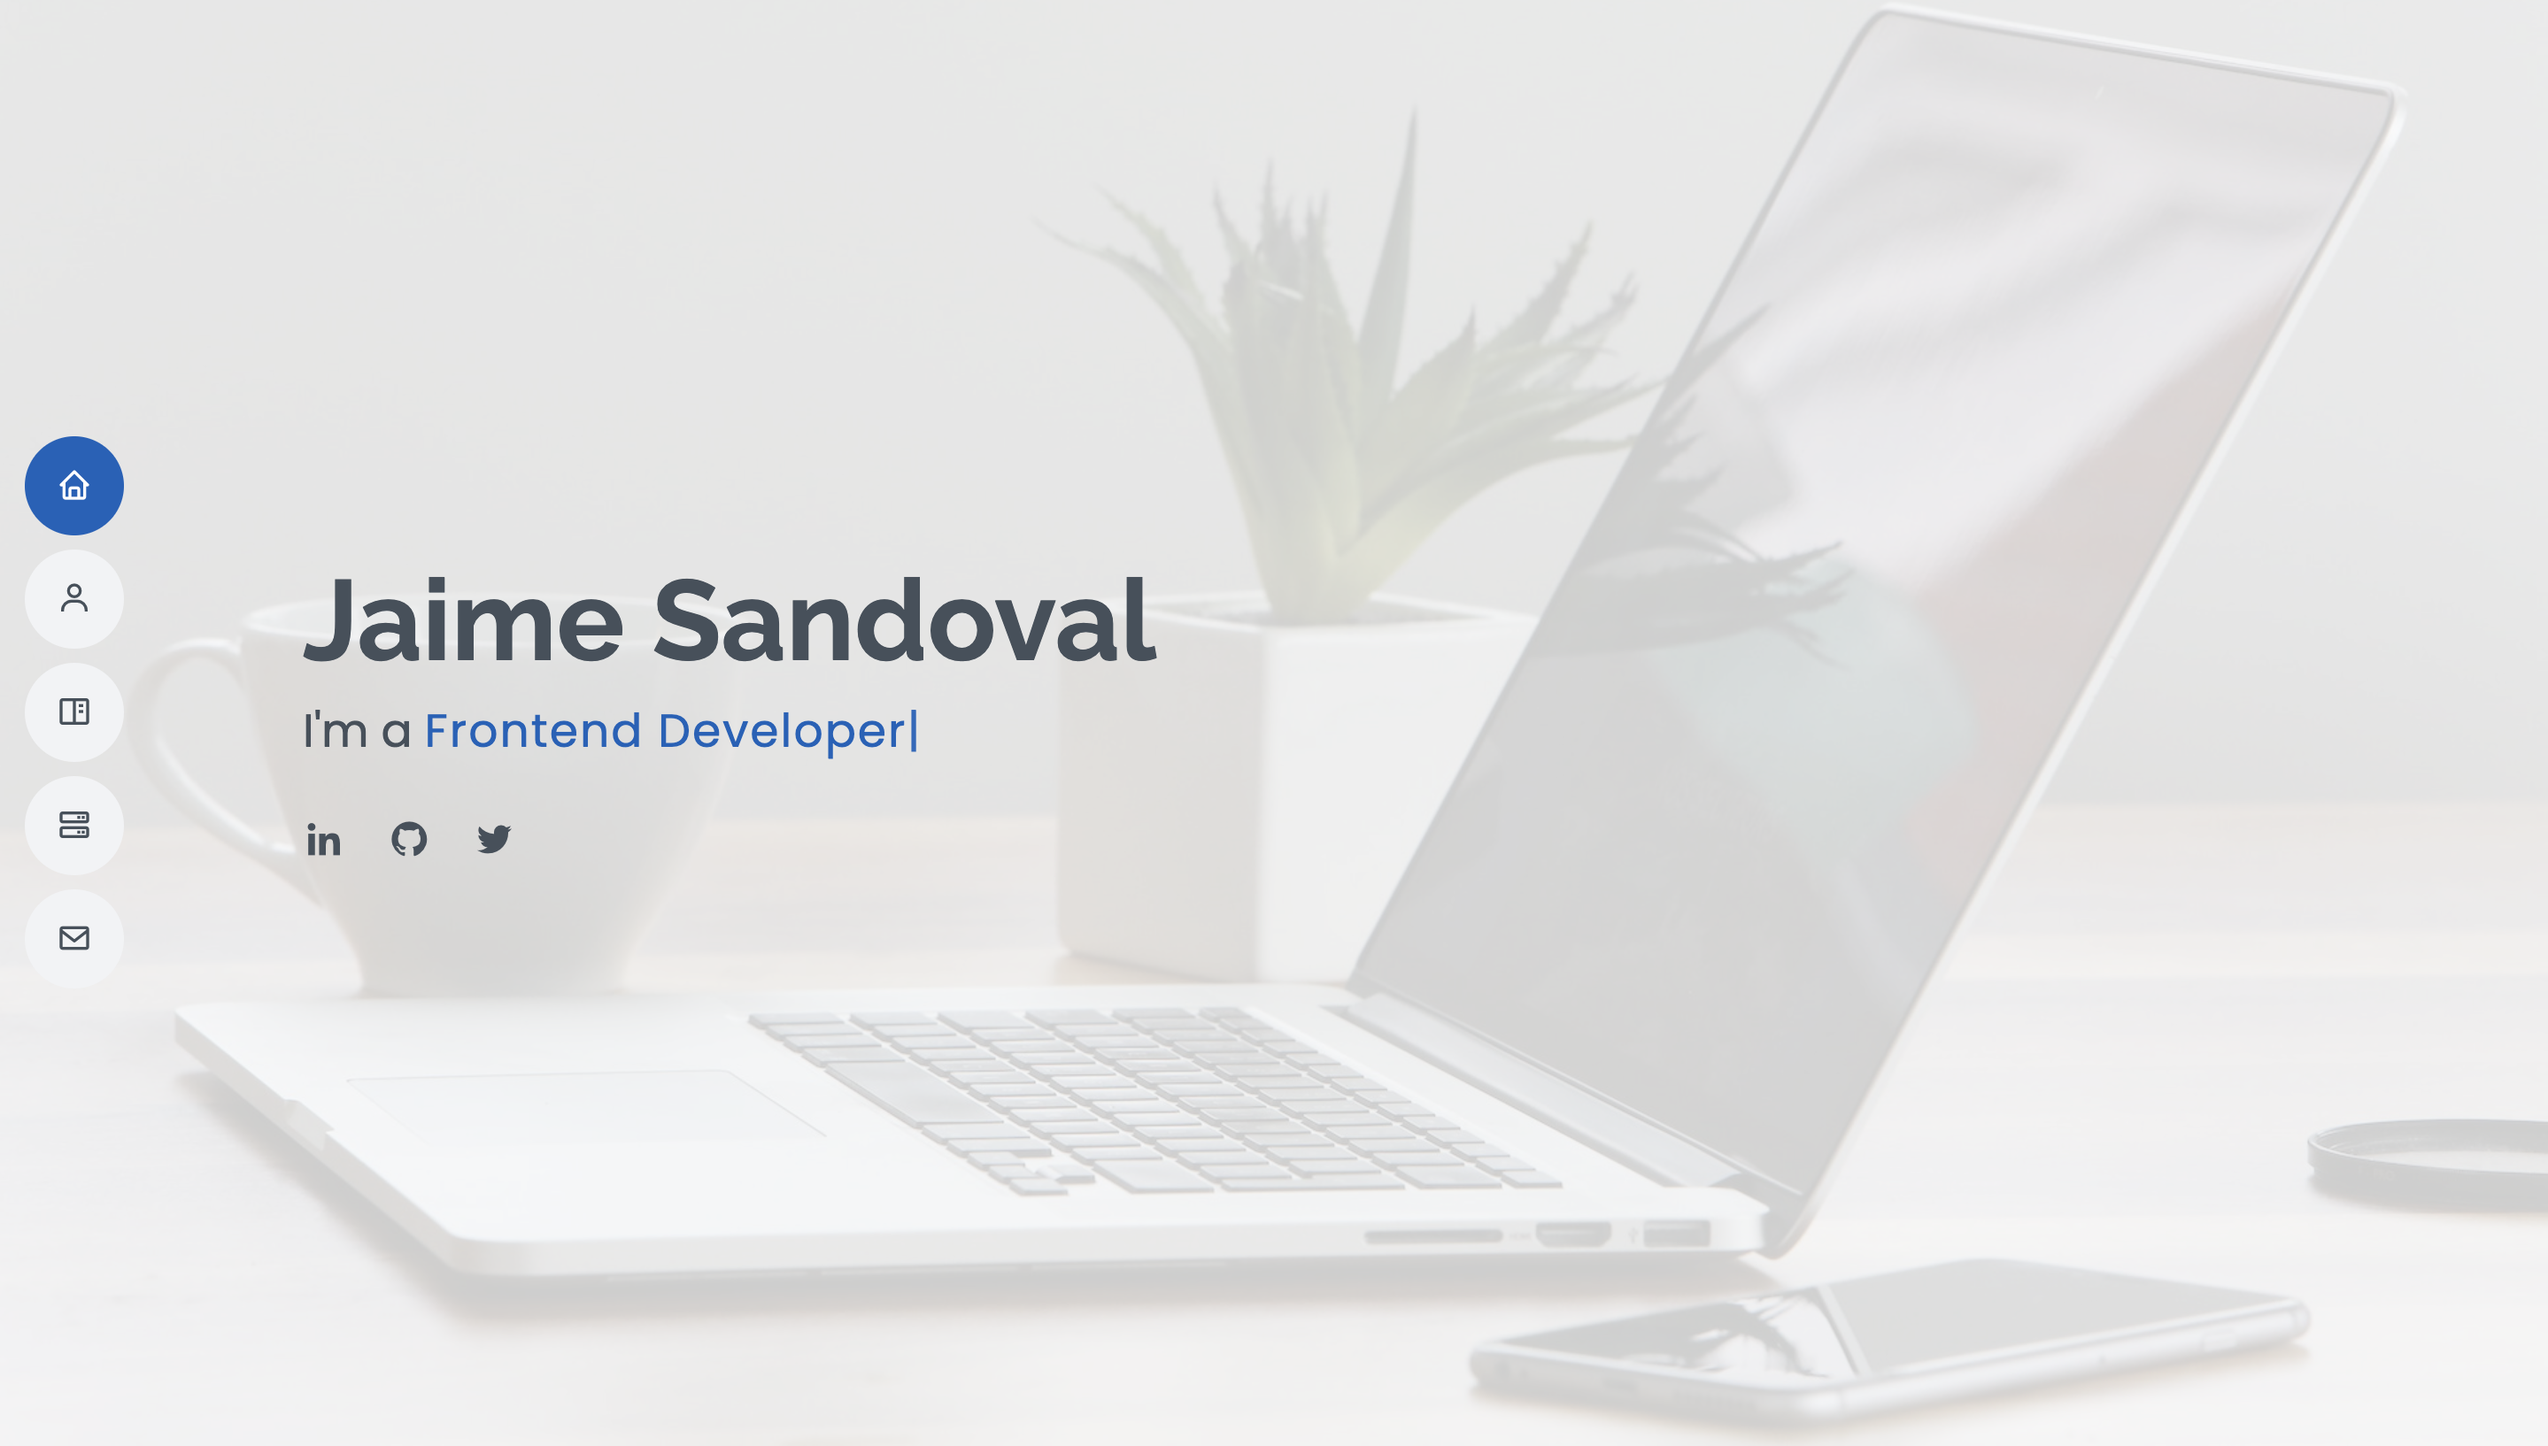
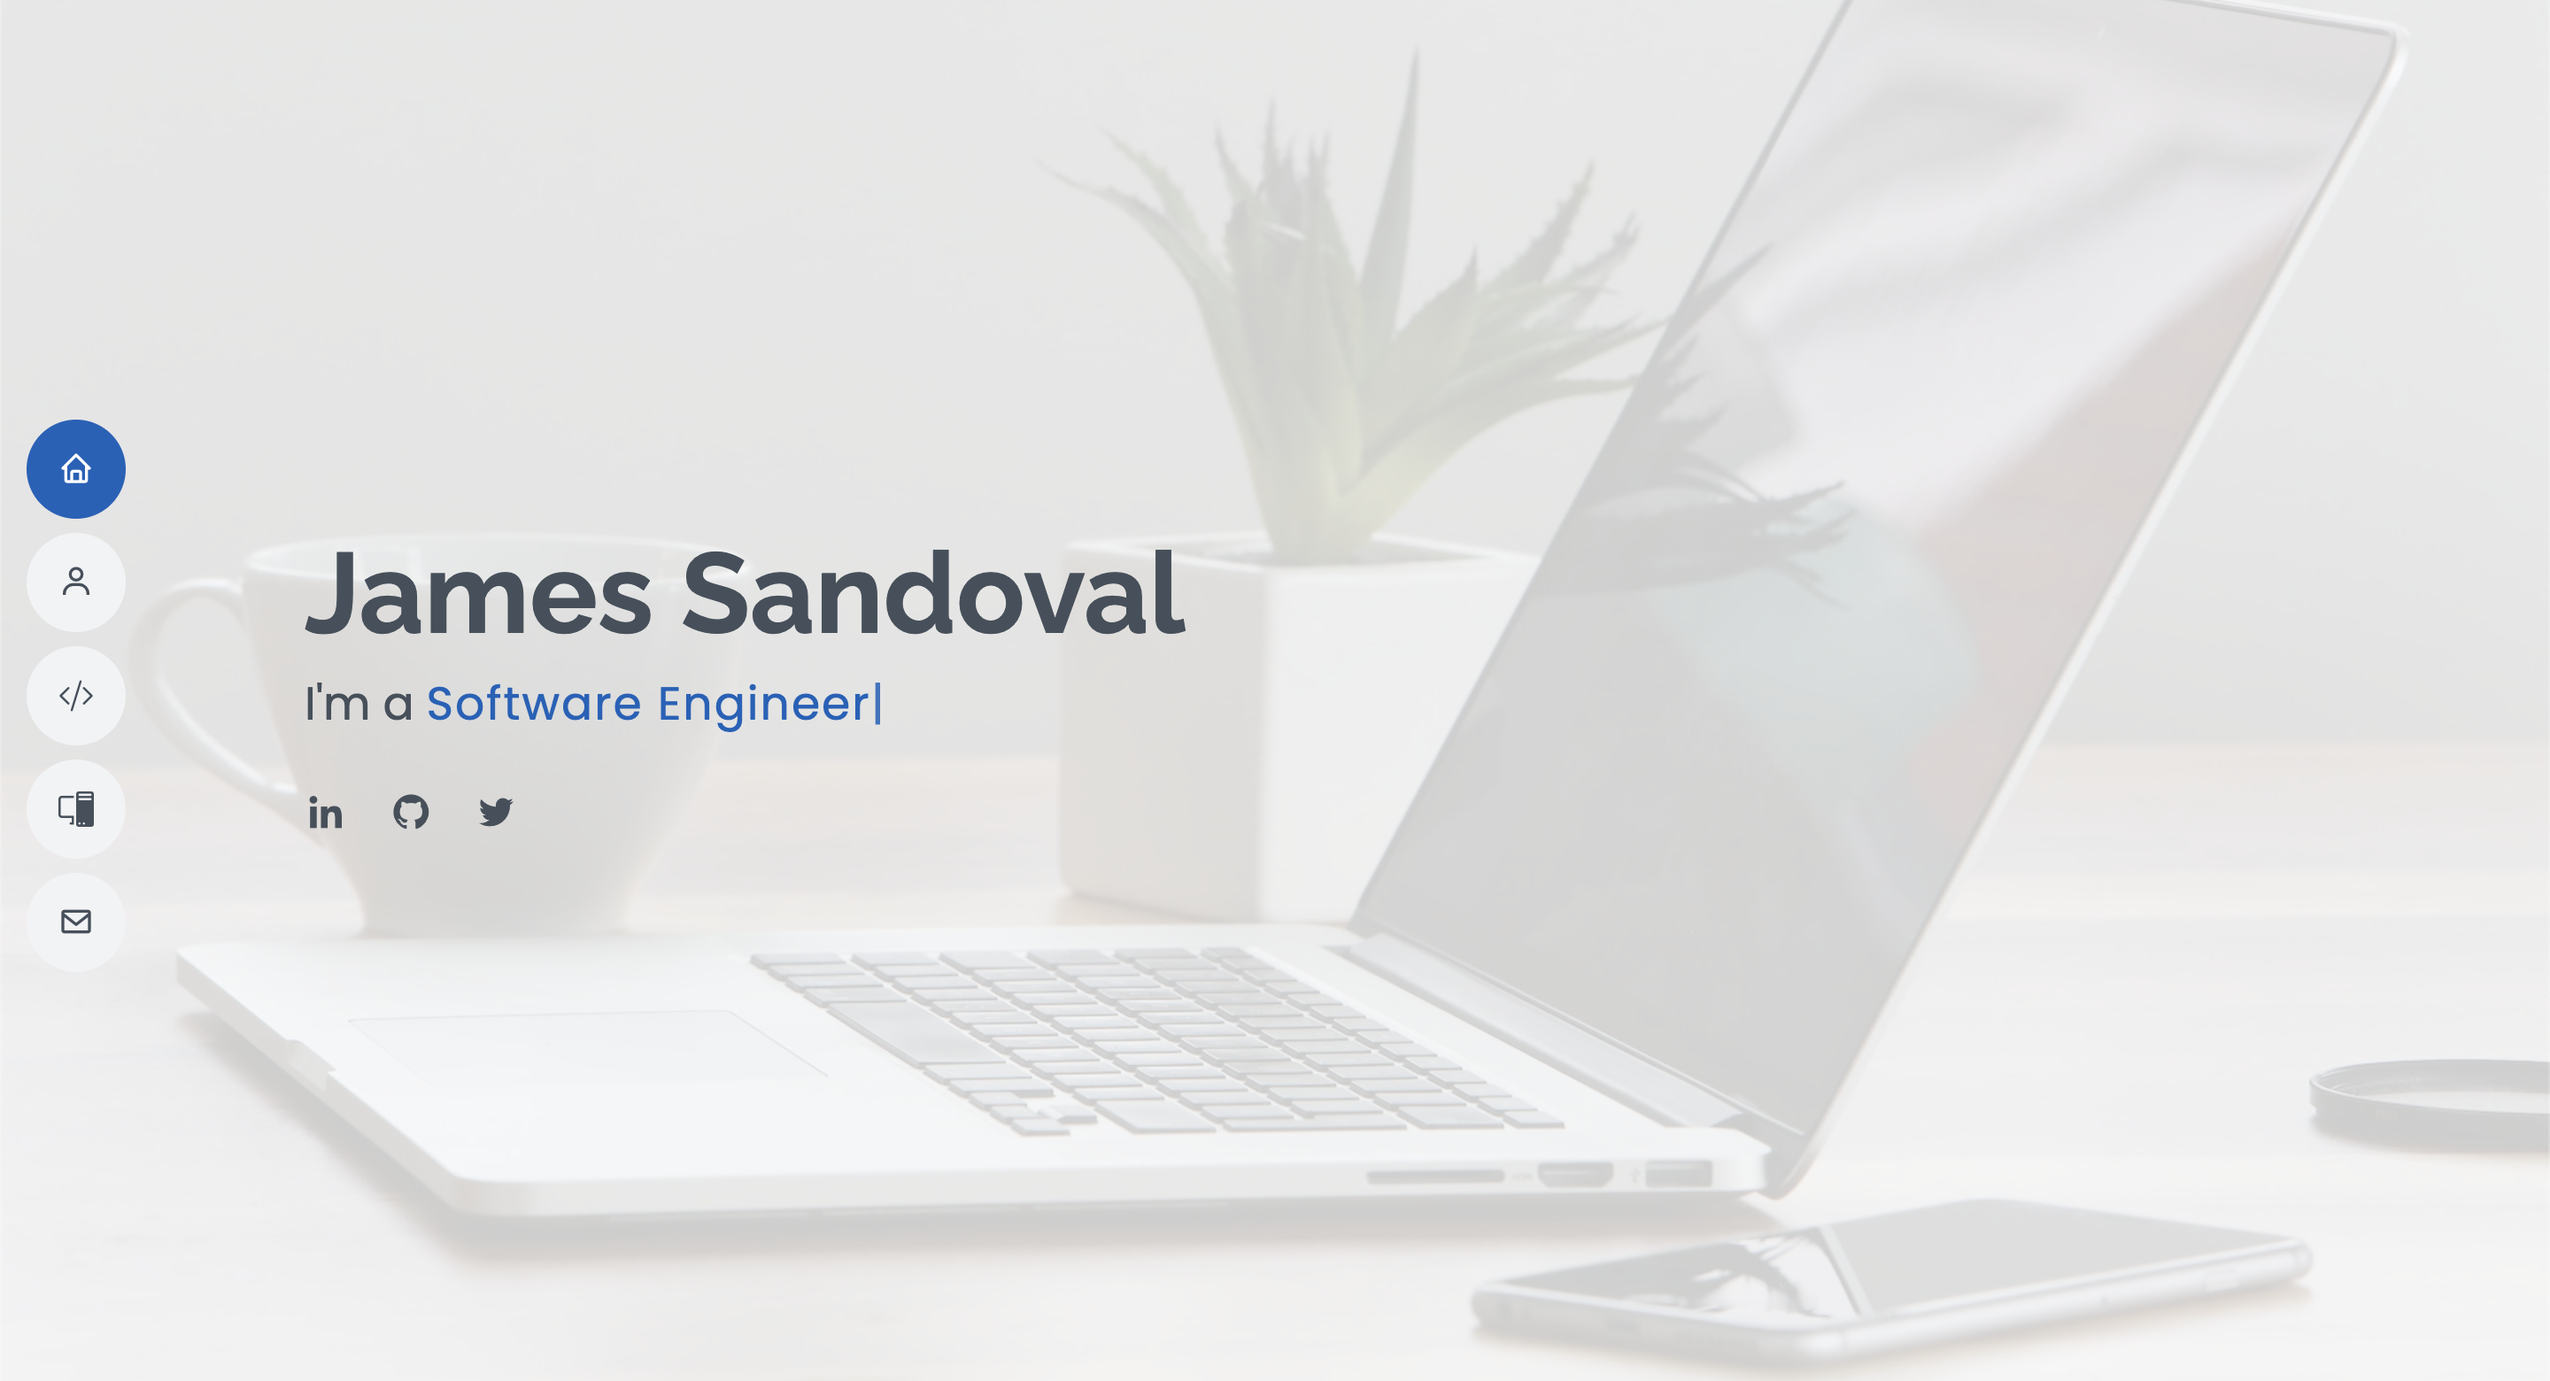
change open graph img and tags

diff --git a/index.html b/index.html
@@ -12,6 +12,20 @@
       name="description"
       content="A portfolio to showcase the projects and skills for James Sandoval, a Software Engineer. TypeScript, JavaScript, React.js, Node.js, SQL."
     />
+    <!-- Facebook Meta Tags -->
+    <meta property="og:url" content="https://jamessandoval.dev/" />
+    <meta property="og:type" content="website" />
+    <meta property="og:title" content="James Sandoval | Software Engineer" />
+    <meta property="og:description" content="Portfolio | James Sandoval | Software Engineer" />
+    <meta property="og:image" content="https://jamessandoval.dev/assets/img/og-img-url.png" />
+
+    <!-- Twitter Meta Tags -->
+    <meta name="twitter:card" content="summary_large_image" />
+    <meta property="twitter:domain" content="jamessandoval.dev" />
+    <meta property="twitter:url" content="https://jamessandoval.dev/" />
+    <meta name="twitter:title" content="James Sandoval | Software Engineer" />
+    <meta name="twitter:description" content="Portfolio | James Sandoval | Software Engineer" />
+    <meta name="twitter:image" content="https://jamessandoval.dev/assets/img/og-img-url.png" />
 
     <title>James Sandoval | Software Engineer</title>
     <meta content="" name="description" />
